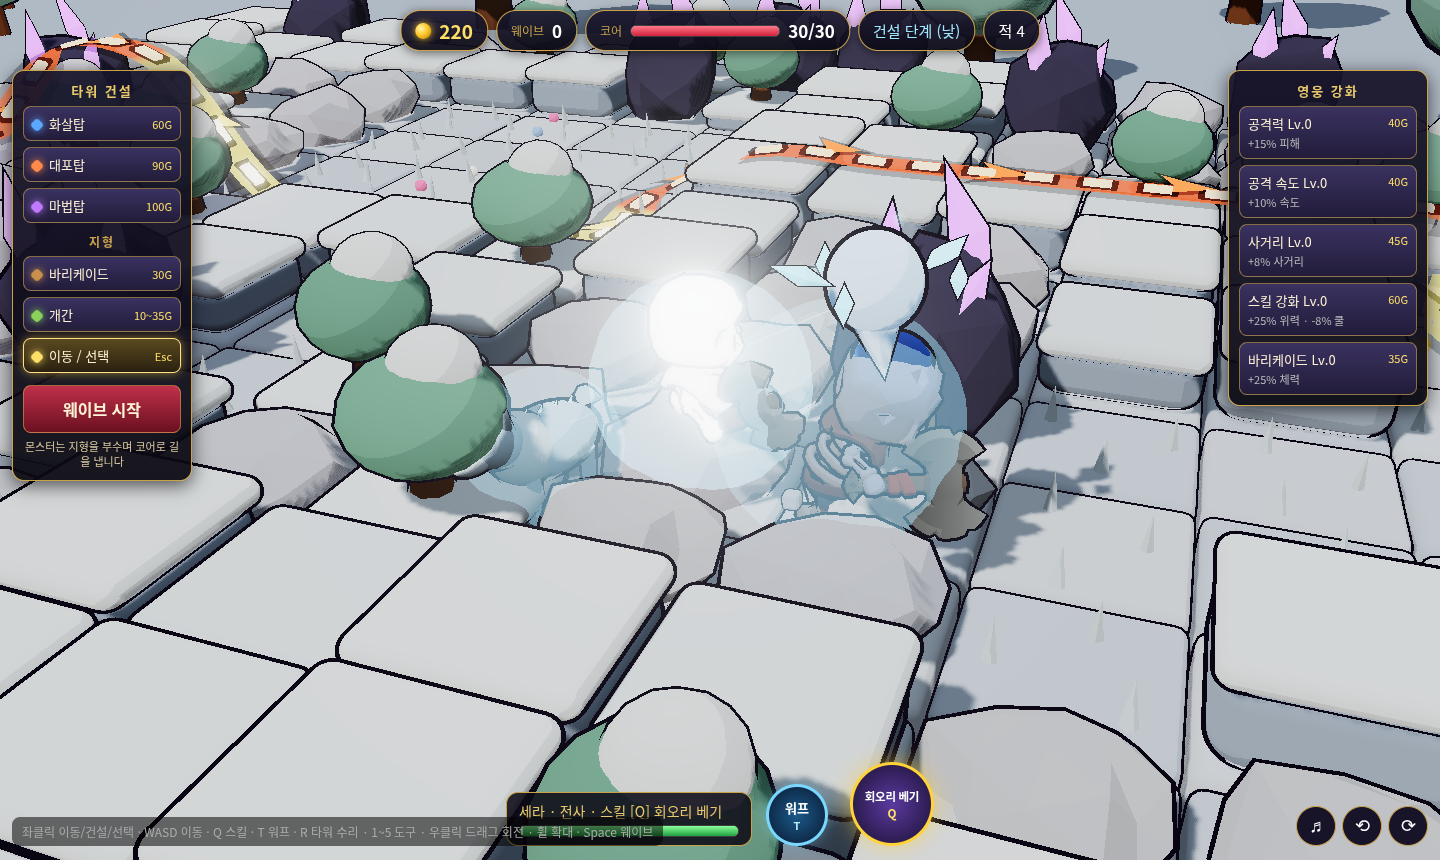
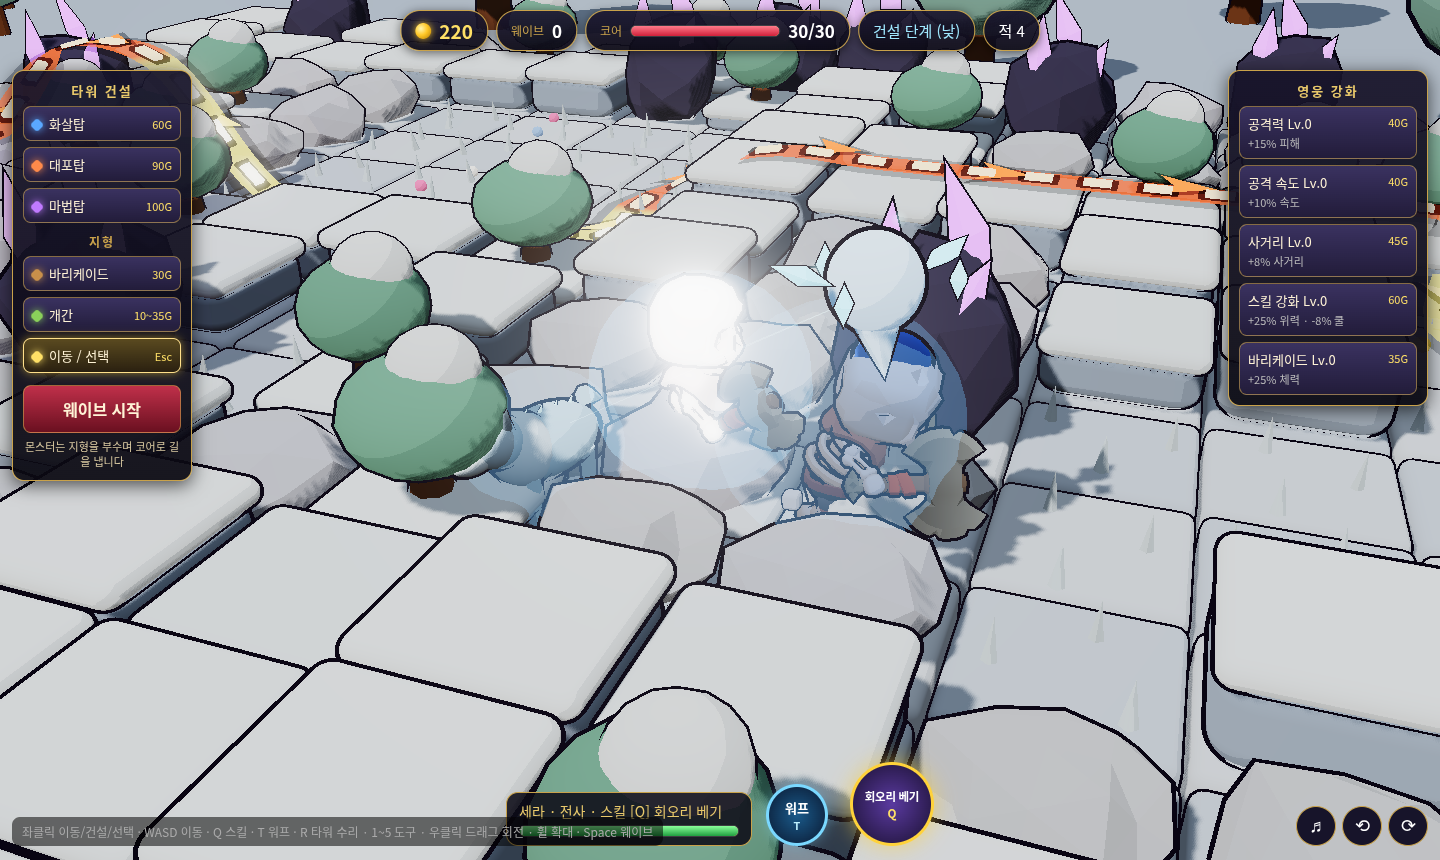
보호막 거품 밝기 낮춤(겹쳐도 하얗게 뜨지 않음), 뿌리 속박 스크린샷 각도

Changed region(s): [[0.5, 0.3628, 0.6875, 0.6047], [0.3438, 0.4535, 0.4375, 0.6047]]

diff --git a/src/monsters/abilities.js b/src/monsters/abilities.js
@@ -119,7 +119,7 @@ function spawnPending() { while (pend.length) { const o = pend.shift(); bump('sp
     ch.stunT = .4; ch.kup = { t: 0, dur: .4, h: .9 }; }
   emit(P, o.x, .6, o.z, 18, 0x8aff6a, 4, .5, -8, 1); Snd.play('digSoft', { pos: { x: o.x, z: o.z }, rate: 1.7, vol: .6 }); } }
 // ---- 표시 (보호막 거품, 고리, 타워 상태) ----
-let _bubG, _bubM; function bubble(e, on) { if (on && !e.shBub) { _bubG ||= new THREE.SphereGeometry(1, 20, 14); _bubM ||= new THREE.MeshBasicMaterial({ color: 0x9ae0ff, transparent: true, opacity: .28, blending: THREE.AdditiveBlending, depthWrite: false, toneMapped: false });
+let _bubG, _bubM; function bubble(e, on) { if (on && !e.shBub) { _bubG ||= new THREE.SphereGeometry(1, 20, 14); _bubM ||= new THREE.MeshBasicMaterial({ color: 0x7ac8ff, transparent: true, opacity: .16, blending: THREE.AdditiveBlending, depthWrite: false, toneMapped: false });
   const b = new THREE.Mesh(_bubG, _bubM.clone()); b.scale.setScalar(Math.max(.8, e.E.h * .55)); b.position.y = e.E.h * .5; b.userData.hit = 0; e.g.add(b); e.shBub = b; }
   if (e.shBub) e.shBub.visible = on; }
 function groundRing(g, r, color, op) { const m = new THREE.Mesh(new THREE.RingGeometry(r * .93, r, 48), new THREE.MeshBasicMaterial({ color, transparent: true, opacity: op, side: THREE.DoubleSide, blending: THREE.AdditiveBlending, depthWrite: false, toneMapped: false }));
@@ -146,7 +146,7 @@ function updTowerFx(dt) { for (const tw of G.towers) { if (!(tw.rootT > 0 || tw.
   F.warn.visible = tw.warnT > 0; if (F.warn.visible) { F.warn.material.color.setHex(tw.warnC || 0x7aff4a); F.warn.material.opacity = .45 + .45 * Math.abs(Math.sin(G.t * 10)); F.warn.scale.setScalar(1 + Math.max(0, tw.warnT) * .25); } } }
 function updAbilities(dt) {
   if (pend.length) spawnPending(); if (balls.length) updBalls(dt); updTowerFx(dt);
-  for (const e of G.enemies) { if (e.shBub) { if (e.shieldT > 0) { e.shieldT -= dt; if (e.shieldT <= 0 && e.shield > 0) { e.shield = 0; bubble(e, false); } } const b = e.shBub; if (b.visible) { b.userData.hit = Math.max(0, b.userData.hit - dt); b.material.opacity = .22 + b.userData.hit * 2 + Math.sin(G.t * 4) * .05; b.rotation.y += dt; } if (e.dying !== undefined) b.visible = false; }
+  for (const e of G.enemies) { if (e.shBub) { if (e.shieldT > 0) { e.shieldT -= dt; if (e.shieldT <= 0 && e.shield > 0) { e.shield = 0; bubble(e, false); } } const b = e.shBub; if (b.visible) { b.userData.hit = Math.max(0, b.userData.hit - dt); b.material.opacity = .13 + b.userData.hit * 1.2 + Math.sin(G.t * 4) * .03; b.rotation.y += dt; } if (e.dying !== undefined) b.visible = false; }
     if (e.m.chillRing) { e.m.chillRing.visible = e.dying === undefined; e.m.chillRing.rotation.z += dt * .5; } }
 }
 function clearAbilities() { pend.length = 0; for (const b of balls) scene.remove(b.m); balls.length = 0; }

diff --git a/tests/roster_shots.py b/tests/roster_shots.py
@@ -25,9 +25,9 @@ def ch2_snow(pg): return pg.evaluate(BATTLE, [9, ['frostgolem', 'yeti', 'wisp', 
 def endless_mix(pg): return pg.evaluate(BATTLE, [12, ['yeti', 'treant', 'wisp', 'slime']])
 @shot
 def ab_root(pg):
-    r = pg.evaluate(r"""()=>{ const s = R_.grass(); const tw = R_.tower('arrow', s); const t2 = G.tileAt(s[0] + 1, s[1]).t === 0 ? R_.tower('magic', [s[0] + 1, s[1]]) : null; const [x, z] = R_.xz(tw, 1.6, 3.2); const t = R_.at('treant', x, z); t.hp = t.max = 1e9;
-      R_.runUntil(() => tw.rootT > 0, 8); G.sim(.35); t.g.rotation.y = Math.atan2(-1.6, -3.2); return R_.xz(tw, .8, 1.6); }""")
-    close(pg, *r, r=17, phi=.95); return r
+    r = pg.evaluate(r"""()=>{ const s = R_.grass(); const tw = R_.tower('arrow', s); const t2 = G.tileAt(s[0] + 1, s[1]).t === 0 ? R_.tower('magic', [s[0] + 1, s[1]]) : null; const [x, z] = R_.xz(tw, -1.2, -3.4); const t = R_.at('treant', x, z); t.hp = t.max = 1e9; t.slowT = 0;
+      R_.runUntil(() => tw.rootT > 0, 8); G.sim(.35); t.slowT = 0; t.g.rotation.y = Math.atan2(1.2, 3.4); return R_.xz(tw, -.4, -1.2); }""")
+    close(pg, *r, r=15, phi=.95, theta=.2); return r
 @shot
 def ab_heal(pg):
     r = pg.evaluate(r"""()=>{ const [x, z] = G.tileXZ(9, 8); const m = R_.at('mushroom', x, z); const L = [R_.at('goblin', x + 1.6, z + .6), R_.at('grunt', x - 1.4, z + 1), R_.at('wolf', x + .4, z + 1.8)]; L.forEach(e => e.hp = e.max * .4); m.hp = m.max * .7;
@@ -49,7 +49,7 @@ def ab_frost(pg):
 @shot
 def ab_shield(pg):
     r = pg.evaluate(r"""()=>{ const [x, z] = G.tileXZ(9, 8); const L = [R_.at('grunt', x, z), R_.at('shield', x + 1.6, z + .5), R_.at('icewolf', x - 1.2, z + 1.2)]; const w = R_.at('wisp', x + 3, z + 2, false);
-      R_.runUntil(() => L.filter(e => e.shield > 0).length >= 3, 6); G.sim(.15); G.hurt(L[0], 5); return [x + .5, z + .8]; }""")
+      R_.runUntil(() => L.filter(e => e.shield > 0).length >= 3, 6); G.sim(.15); return [x + .5, z + .8]; }""")
     close(pg, *r, r=12, phi=1.08); return r
 @shot
 def ab_crack(pg):
